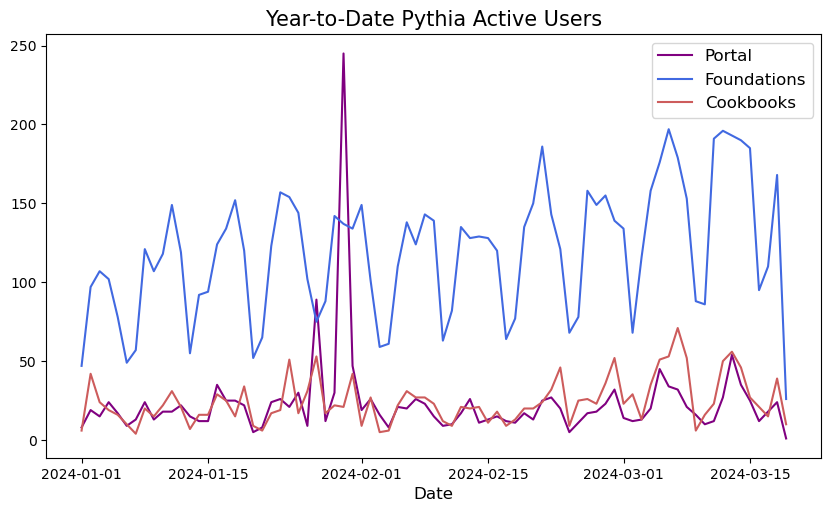
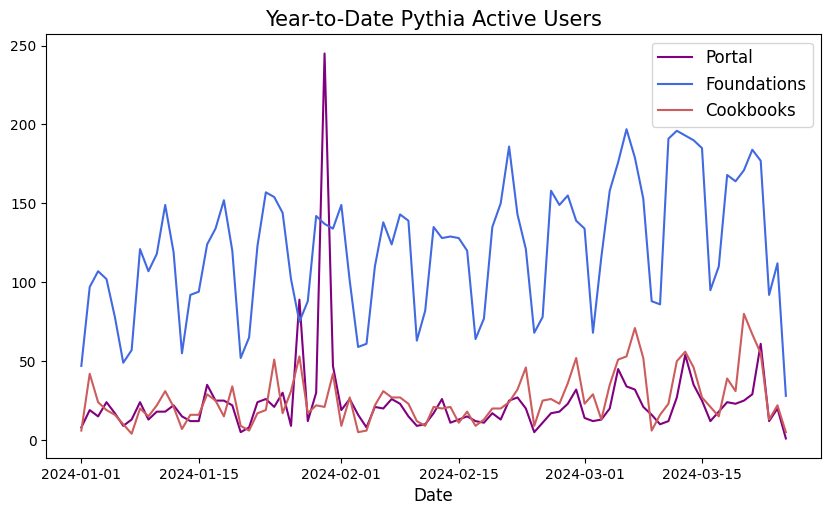
deploy: 61ee7ad4a2fcb126cc232da2541109c26b6d800a

diff --git a/searchindex.js b/searchindex.js
@@ -1,1 +1,1 @@
-Search.setIndex({docnames:["about","code_of_conduct","contributing","index","metrics","posts/cookoff2023","posts/cookoff2024-savethedate","posts/cookoff2024-website","resource-gallery"],envversion:{"sphinx.domains.c":2,"sphinx.domains.changeset":1,"sphinx.domains.citation":1,"sphinx.domains.cpp":5,"sphinx.domains.index":1,"sphinx.domains.javascript":2,"sphinx.domains.math":2,"sphinx.domains.python":3,"sphinx.domains.rst":2,"sphinx.domains.std":2,"sphinx.ext.intersphinx":1,sphinx:56},filenames:["about.md","code_of_conduct.md","contributing.md","index.md","metrics.md","posts/cookoff2023.md","posts/cookoff2024-savethedate.md","posts/cookoff2024-website.md","resource-gallery.md"],objects:{},objnames:{},objtypes:{},terms:{"0":3,"01":0,"02":0,"03":0,"04":0,"05":0,"06":0,"07":0,"1":[1,3,8],"10":[1,3,5],"11":[3,6,7],"12":0,"14":[3,6,7],"2":[3,8],"20":[1,5],"2019":8,"2020":1,"2021":0,"2022":0,"2023":[0,3],"2024":[0,3],"23":5,"3":[2,3,8],"36":5,"3857":8,"4":[1,3],"4326":8,"5":8,"5065":1,"5281":3,"6":8,"6w2c":1,"75":8,"8184298":3,"abstract":0,"break":2,"case":[2,8],"class":8,"do":[1,2,3,8],"final":2,"function":8,"import":[2,5],"long":[2,3],"new":[5,8],"public":[0,2,3,8],"short":[2,8],"static":8,"while":[2,3,8],A:[0,2,8],As:2,At:2,BY:3,Be:1,But:[2,8],By:8,For:[2,3],If:[1,2,3],In:[0,1,2,8],It:[2,8],One:[2,5],Such:1,That:2,The:[0,1,5,6,7,8],There:[2,3],These:[2,3],To:[0,2,3,8],With:2,a132:1,abernathei:8,abid:1,abil:[1,8],abl:2,about:[2,3,5,8],abov:[1,2,8],abovement:8,abus:1,academ:8,academi:8,accept:[1,2],access:[0,2,3,8],account:[1,2],acknowledg:1,acquir:2,across:3,act:3,action:1,activ:[1,2,8],actual:2,ad:2,adapt:[1,3],add:8,addit:[1,2,5,8],address:[1,2,8],addtion:2,adopt:[0,1],advanc:[0,1,3,8],advis:2,affect:[1,2],affili:[1,8],after:2,ag:1,again:2,against:2,agenda:3,agnost:8,agu:[0,1],ai:8,aim:8,aka:2,al:8,alan:8,alarm:1,albani:8,alert:1,alfr:8,algorithm:8,align:1,alik:8,all:[0,1,2,3,8],allow:[2,8],along:[2,3,8],alreadi:[2,8],also:[0,1,2,3,8],altern:2,alwai:2,am:0,amelia:3,american:1,an:[0,1,2,3,5,8],anaconda:2,analys:8,analysi:8,analyt:8,analyz:[0,8],ancient:0,anderson:8,ani:[0,1,2,3,8],anim:8,anissa:8,anonym:8,anonymousaffili:8,anoth:[2,8],anyon:[1,3],anyth:[2,3,8],anywher:2,apach:3,api:8,apollo:0,appear:1,appli:1,applic:[1,8],approach:8,appropri:[1,2,3],approxim:8,ar:[0,1,2,3,5,8],area:8,argument:2,arm:0,around:[0,3],arrai:8,arriba:8,arw:8,asefawaffili:8,ask:[2,8],aspect:2,aspir:0,assembl:2,asset:2,associ:[1,2],astronom:8,atmospher:[0,8],atsc301:8,attack:1,attempt:3,attent:1,attribut:8,austinaffili:8,author:8,automat:2,avail:[1,2,8],avoid:1,b:2,back:[2,3],background:8,ban:1,banihirw:8,base:[0,1,2,8],basemap:8,basic:[2,8],becaus:2,becom:5,been:2,befor:2,begin:[3,8],beginn:8,behavior:1,being:[0,8],bel:8,belaffili:8,believ:[2,8],below:[1,2,3,8],benefit:5,best:[2,8],better:[0,5],between:2,beyond:[0,8],big:8,binder:0,bodi:1,book:8,borrow:[1,8],both:[0,1,2,8],boulder:[5,6,7,8],bound:8,box:8,branch:2,branch_nam:2,brendan:8,brian:[0,3,8],british:8,broadcast:8,broadli:8,broken:[2,8],brought:[1,8],browser:2,buil:8,build:[0,2,3,8],built:[0,8],builtin:8,button:2,calcul:8,calendar:8,call:[0,8],camron:[0,8],can:[1,2,3,8],career:[0,8],carpentri:8,carri:1,cartopi:[2,8],catalog:8,categor:8,categori:3,cc:3,cd:2,center:[0,3],certif:8,cesm:0,chabot:8,challeng:[0,2],chang:[0,1,5],channel:3,chapter:8,characterist:1,check:[2,7,8],checkout:2,chemistri:0,choos:2,chronolog:0,chunk:2,ci2023:0,circumst:1,citat:5,clarifi:[1,2],clean:[2,8],clear:8,clearli:8,click:[0,2,3],client:8,climat:[0,8],climatematch:8,climlab:8,clone:2,cloud:0,clyne:[0,3],cma:8,co:[2,5],coast:0,code:[3,5,8],collab:8,collabor:[0,1,2,3,8],collect:[2,8],colorado:[0,6,7,8],columbia:8,com:2,come:[3,6],command:[2,8],commandlin:8,comment:[1,5],commit:1,common:[2,3,8],commonli:8,commun:[0,2,3,5,8],communityaffili:8,comp:8,compar:2,complaint:1,complet:2,complex:[2,8],compli:1,complic:2,compon:[3,8],comprehens:[3,8],comput:[0,3,8],concept:8,concern:1,concis:8,conda:[2,8],conduct:[2,3],confer:3,config:2,congratul:2,connect:[2,3],consid:[1,2],consider:1,consist:8,consult:2,consumpt:3,contain:[2,8],content:[0,3,5,8],contexili:8,contextili:8,contextu:8,continu:[1,8],contribut:[0,1,5,8],contributor:[1,3,8],contributorsaffili:8,control:[2,8],convent:2,cook:[0,3],cookbook:[0,7],coordin:8,copi:2,core:8,corner:2,correctli:[2,8],could:1,courework:8,cours:[0,2,8],coven:1,cover:[2,3,8],creat:[1,8],creativ:3,creator:1,credit:3,critic:1,critiqu:1,curat:[3,8],current:[0,2,8],custom:[2,8],customiz:0,cut:8,cych:8,cygnss:8,dai:8,damien:8,danger:1,dani:8,dask:8,data:[0,8],dataarrai:8,dataset:8,datatyp:8,date:[0,1,2],datetim:8,daunt:2,deal:8,decemb:1,deem:1,defens:8,defin:[1,8],delphi:0,demo:8,demonstr:8,depart:8,depend:[2,8],deploy:0,depth:8,describ:2,descript:2,design:8,desir:2,desktop:2,detail:[2,3,6,8],develop:[2,3,5,8],developersaffili:8,diagnost:[0,8],dialogu:2,dictionari:8,did:2,differ:[2,8],difficult:2,difficulti:2,digit:0,dimens:8,dimension:8,direct:1,directli:2,directori:2,disabl:1,discern:8,disciplin:0,discours:3,discrimin:1,discuss:[2,8],disk:8,displai:8,distress:1,divers:[1,8],doc:2,document:[1,2,8],documentation_cleanup:2,doe:[2,8],doherti:8,doi:[1,3,5],domain:[3,8],don:2,done:[2,8],down:2,download:[2,3,8],drew:[0,8],driven:8,dure:5,e:[0,2,3,8],each:[2,3],earth:[0,8],eas:2,easi:[2,8],easier:8,easiest:2,ecolog:8,ecosystem:[0,2,3,8],ed:8,edg:8,edit:[1,2],educ:[0,2,3,8],effect:[0,2,3],effici:8,effort:[0,5],either:2,electron:1,eleg:8,elsewher:[2,8],email:[1,2],emerg:0,emploi:2,employe:1,empow:[0,1],enabl:[2,8],encount:2,encourag:[1,2,3],end:5,enforc:1,engag:3,engin:[0,8],enjoi:5,enough:8,enterpris:2,enthought:8,enthusiast:[5,8],entir:[0,2,3,8],environ:[0,1,8],environment:8,epsg:8,equat:8,equiti:1,eroglu:3,error:8,escienc:8,esd:0,essenti:2,et:8,etc:[1,2],ethnic:1,even:[2,8],event:[1,5],everi:8,everyon:[1,3,5,8],everyth:2,exampl:[0,1,2,3,5,8],excit:3,execut:[0,2],exercis:8,exist:[2,8],exit:5,expand:5,expect:[1,2,5],experi:[1,8],expertis:0,explain:8,explicit:1,explicitli:2,explor:8,exploratori:8,express:[1,8],extend:8,extens:8,extern:[2,8],face:1,facilit:3,familiar:2,fast:8,featur:8,feature_nam:2,feder:1,fellow:1,felt:5,few:2,field:8,figur:[2,8],file:[2,8],filter:[2,3,8],find:[2,3],fine:2,fiona:8,first:[2,5,8],firstli:2,fit:8,fix:2,flexibl:8,focu:8,focus:[0,3,8],folk:3,follow:[1,2,8],forecast:8,form:[1,8],format:[0,2,8],formerli:8,forum:[0,1,2,3],found:2,foundat:8,free:[2,3],freeli:[3,8],friend:2,friendli:8,from:[0,1,3,5,8],fun:8,fundament:8,further:[1,2,8],g:[2,8],galleri:5,garden:0,gatewai:5,gather:[3,5],gave:2,gender:1,gener:[2,8],genet:1,geo:3,geocat:[2,8],geocataffili:8,geograph:8,geographi:8,geohackweek:8,geojson:8,geometr:8,geopanda:8,geophys:1,geoscienc:[0,2,3,8],geoscientif:[0,3,5],geoscientist:[0,2,3,8],geospati:8,geotiff:8,get:[0,3,5,8],gi:8,git:8,github:[0,3,8],give:[2,3],glaciolog:8,global:[2,8],gloss:8,go:[2,3,8],goal:[3,8],god:0,goe:2,good:2,googl:[2,8],gopalakrishnanaffili:8,gracefulli:1,graduat:8,graph:8,great:[2,5,8],greatli:2,greek:0,grew:8,grid:8,group:[0,3],grover:0,groveraffili:8,grow:8,guest:1,guid:[3,8],guidelin:2,gulf:0,ha:[2,3,5],hacakthon:5,hackthon:5,hackweek:8,hand:[3,8],hanna:8,happen:2,harass:1,hardwar:1,harm:1,have:[0,1,2,3,8],head:2,heavili:[0,8],held:8,help:[0,2,3,8],here:[0,2,3,8],heterogen:8,hidden:2,high:[0,3,8],highlight:8,histori:0,hold:3,holoview:8,holoviz:8,home:[0,1,2,3],hook:2,hope:8,hopefulli:2,host:[2,3,5,8],hostil:1,hour:3,hous:3,how:[0,2,8],howev:[0,2],hr:1,http:[1,2,3],hub:3,huge:[0,2,3],hvplot:8,hybrid:5,hydrolog:8,i:8,icon:2,idea:[1,2],ideal:8,ident:1,illustr:8,imag:[1,8],imageri:8,immedi:1,impact:2,improv:[0,5],inappropri:1,incid:1,includ:[1,2,3,8],inclus:[0,1,3,8],incomplet:8,index:8,indic:2,individu:[1,3,8],info:0,inform:[1,2,3,8],infrastructur:[2,5],ingest:8,initi:[0,3],insid:2,inspir:8,instal:[2,8],instanc:[1,2],instead:0,institut:[1,2,8],instituteaffili:8,instruct:2,instructor:3,instrument:0,intak:8,integr:[0,8],intend:8,intens:8,interact:[3,8],interest:3,interfac:8,intermedi:8,internet:[3,8],interoper:2,interpol:8,intimid:1,intro:8,introduc:[5,8],introduct:[0,8],intuit:8,involv:[0,2,3],ipyleaflet:8,irv:8,isn:2,isol:2,iss:0,issu:[1,2],issue_xxx:2,item:2,its:[0,1,2,8],j:3,jai:8,jame:3,john:[0,3],join:5,journei:2,jovian:8,julia:[0,8],june:[3,5,6,7],jupyt:[3,8],jupyterbook:8,jupyterlab:8,just:[2,8],k:8,keep:[2,8],kei:8,kent:[0,8],kerri:8,kevin:[0,3,8],keyaffili:8,know:8,knowledg:2,known:0,koldunovaffili:8,kootz:8,l:8,lab:[5,6,7,8],labaffili:8,label:[2,8],laboratori:8,lamont:8,languag:[0,2,8],laptop:2,larg:8,larger:5,last:2,lastli:2,later:[0,2,3],latest:[1,2],latter:2,launch:0,law:1,layer:8,learn:[0,2,5,8],learner:8,least:8,leclerc:8,leclercaffili:8,led:3,len:0,less:8,lesson:8,level:[0,1,2,8],leverag:0,librari:8,licens:3,light:0,like:[0,2,8],limit:1,line:[2,8],link:[0,2,3],lisa:8,list:[0,1,2,3],live:8,liverpool:8,ll:[2,8],locat:[2,6,7],log:2,look:[0,2,3,8],lot:2,love:8,machin:2,made:[0,2,5],mai:[1,2,3,8],mail:1,main:2,maintain:[1,2,8],major:8,make:[0,1,3,8],manag:[1,2],mani:8,manipul:[0,8],manual:2,map:8,mapbox:8,marin:8,markdown:8,materi:[2,3,8],math:8,mathemat:8,matlab:8,matplotlib:[2,8],max:[0,8],md:2,me:5,mean:3,meaning:2,mechan:8,media:[1,3],meet:1,member:[1,2,5],mention:2,menu:2,mercat:8,merg:2,mesa:[5,6,7],messag:2,met:8,meteorolog:8,method:[2,8],metpi:8,michael:8,michaela:8,might:[2,8],mind:1,miniconda:2,minut:8,mirror:5,mission:8,model:[1,8],modern:8,modul:8,mondai:8,monstrou:0,more:[0,2,3,6,8],most:[2,8],mostli:8,mth271:8,much:[2,8],multi:8,multidisciplinari:8,multipl:[2,8],multitud:0,munro:3,must:2,myriad:[0,2],mysteri:0,mytholog:0,n:8,name:2,nation:1,nativ:8,navig:[0,2],nbsp:8,ncar:[5,6,7,8],neatli:8,necessari:[1,2,8],need:[2,3,8],netcdf4:8,netcdf:8,network:8,neuromatch:8,never:2,nevertheless:2,newli:2,next:[2,3,8],nguyen:8,nikolai:8,non:[3,8],none:8,normal:1,note:[2,3],notebook:[3,5,8],notic:1,notifi:2,novel:5,now:2,nsf:3,nuditi:1,number:2,numer:[0,3,8],numpi:8,o:8,object:8,observ:[0,8],observatori:8,occas:8,occur:2,ocean:[0,8],oceanographi:8,odei:1,off:[0,3,8],offens:1,offer:[2,8],offic:[1,8],offici:2,often:2,old:0,onc:[2,8],one:[2,8],ones:[1,2],onli:[0,2],onlin:[0,1,2,8],open:[0,2,3,8],openli:1,oper:[2,8],opinion:1,opt:2,option:2,oracl:0,order:[0,8],org:[1,3],organ:[2,3,8],orhan:3,orient:[1,8],origin:[1,2],os:3,other:[0,1,2,3,8],our:[2,3,5,8],out:[1,2,3,7,8],outlin:1,output:8,outreach:3,outsid:[1,2],over:8,overcom:2,overview:8,own:[0,2,3,5,8],owner:2,pace:3,packag:[0,2,8],page:[1,2,8],paid:2,panda:8,pangeo:[0,3,5,8],paragraph:2,parallel:8,parlanc:2,part:[2,8],parti:1,particip:[1,3,8],particular:2,particularli:8,pass:8,password:2,past:3,path:2,path_to_new_fil:2,pattern:8,paul:0,paulaffili:8,peopl:[1,5,8],perform:[2,8],perman:1,permiss:1,person:1,pertin:2,philip:8,physic:[1,8],pick:[2,3],place:[5,6,7,8],plan:8,platform:[0,8],pleas:[2,3],plot:8,plu:2,point:[0,1,2],polar:8,polici:1,polit:1,pooch:8,popul:2,popular:8,portal:[0,3],portland:8,posit:1,possibl:[0,2,8],post:[2,5],poster:0,potenti:0,power:[0,2,8],practic:[2,3,8],pre:[2,8],pregnanc:1,preliminari:7,present:[2,8],preview:2,previou:3,prior:8,privat:1,problem:[2,8],procedur:1,process:[1,2,8],procur:8,produc:[0,8],product:[1,8],profession:[1,8],program:[0,2,8],progress:8,proj4:8,project:[2,5,8],projectpythia:[2,3],prompt:2,prone:8,pronoun:1,properli:2,propos:3,protect:1,protocol:2,proven:8,provid:[0,1,2,5,8],publicli:1,publish:[1,3,8],pull:8,pure:8,put:8,pyngl:8,pystac:8,pythia:[1,7,8],pythia_repo_nam:2,pythiaaffili:8,python:[0,3,5,8],qualiti:[0,3,8],question:[2,3,8],r:8,race:1,radar:[0,5],radiat:8,ran:2,rang:3,rapidli:0,raster:8,rasterio:8,rather:1,raw:8,reach:[3,8],read:[2,3,8],readi:8,real:[0,8],reason:1,receipt:1,recent:0,record:[3,8],redirect:2,reduc:2,refer:[2,3,8],regardless:1,regular:3,regularli:3,reject:1,rel:0,relat:2,relev:[2,8],reli:0,reliabl:2,religion:1,remaind:8,rememb:2,remot:[2,5,8],remov:1,render:2,repeat:1,repositori:[1,3,8],represent:1,reproduc:[0,3,5,8],request:[1,8],requir:[0,1,2],requisit:8,research:[0,3,5,8],resourc:[0,5],respect:[1,2],respond:[1,2],result:[2,8],rethink:0,retriev:8,reus:3,reusabl:[0,3],revers:[0,2],review:8,right:[1,2],rocki:0,role:8,root:2,rose:[0,3],roseaffili:8,routin:8,row:2,rule:1,run:[0,1,2,8],ryan:[3,8],s:[0,1,3,5,8],safe:[1,2],sai:2,said:0,same:[0,2],satellit:8,satisfi:2,save:8,scale:8,scenario:8,schedul:3,scienc:[0,3,5,8],scientif:[0,2,3,8],scientist:[0,5,8],scipi:[0,8],scripp:8,script:8,search:2,searchabl:0,second:[2,8],secondli:2,section:[1,8],see:[0,2,3,5],seem:0,seen:2,select:[2,3],seminar:[3,8],send:2,sens:[0,3,5,8],separ:[2,3,8],seri:8,serv:[0,3,8],server:[2,8],servic:[2,8],set:[1,3,8],sever:3,sexual:1,shall:8,shape:8,share:[2,3],sharpen:3,shell:2,should:[1,2,8],show:[1,8],showcas:[0,8],sign:2,signific:[5,8],similarli:0,simpl:[2,8],simpli:2,simplifi:2,simul:0,sinc:8,singl:0,siphon:8,sit:3,site:[2,3,8],situat:1,size:1,sizemoreaffili:8,skill:[0,3,5,8],slai:0,slain:0,slice:8,slide:[0,3],small:8,smaller:3,snyder:3,so:[1,2,3,8],social:[1,3],softwar:[0,1,2,8],solut:2,solv:[2,8],some:[2,8],someon:[1,5],someth:2,sometim:2,somewhat:2,soon:[5,6],sourc:[0,2,3,8],space:[0,1],spatial:8,specif:[1,2,3,8],specifi:2,spend:8,spheric:8,spin:8,spreadsheet:8,ssh:2,stackoverflow:2,staff:1,stalk:1,standalon:8,standard:[2,8],start:[5,8],state:[1,8],statist:8,statu:[1,2],step:2,steward:1,stop:1,store:8,storm:0,stream:8,stricli:2,strive:8,strong:1,structur:8,student:8,studi:[0,8],subdirectori:2,submit:8,subplot:8,subsect:2,subsequ:2,subset:8,success:3,successfulli:2,suggest:2,suit:8,summar:2,supercomput:0,support:[1,2,5,8],sure:2,surround:1,survei:5,sustain:0,syntax:8,system:[0,1,2,8],t:2,tab:2,tabular:8,tailor:8,take:[1,6,7],talk:[0,1],target:[2,8],task:[1,8],taster:8,taught:8,taux:8,teach:8,team:[1,2,3,5,8],teamaffili:8,technic:[0,2],techniqu:8,technolog:[0,2,3,8],telecon:1,telescop:8,tell:2,templ:0,templat:2,temporarili:1,term:2,termin:2,terrain:8,test:[2,8],textbook:8,than:[1,2],thei:[1,2,5,8],them:[1,2,8],therefor:1,therein:2,thi:[0,2,3,5,7,8],thing:[0,1,2,8],those:[1,2,8],though:2,threaten:1,thredd:8,three:[0,2,8],through:[0,3,8],thu:0,tightli:8,tile:8,time:[2,8],timeseri:8,titl:0,todai:0,togeth:[3,8],tool:[0,2,3,5,8],toolchain:2,toolkit:8,top:[2,3,8],topic:[2,3,8],toward:[1,5],track:[3,8],tracker:1,train:[0,3,8],transform:0,transpar:8,treat:1,treatment:1,tremend:0,ture:8,turn:8,tutori:[2,8],two:[0,2,8],txt:8,tyle:[0,3],type:[2,8],typic:2,ucar:1,uk:8,ultim:2,umbrella:2,unaccept:1,uncommit:2,under:[1,2,3,8],understand:2,undertak:8,unfortun:2,unidata:8,union:1,univers:[2,8],unsur:3,until:2,unwelcom:1,up:[0,2,5,8],upcom:3,updat:[0,2,3],upon:1,upper:2,upstream:2,us:[0,1,2,8],user:[2,8],util:8,valid:2,valu:[1,5],vari:2,varieti:[2,8],variou:8,vast:0,ve:2,vector:8,venu:1,verbal:1,veri:[2,8],verifi:2,version:[1,2,8],veteran:1,via:[3,8],video:[0,8],view:[1,3],violat:1,vision:0,visit:[3,8],visual:[0,8],viz:8,volum:[0,3],vs:8,wa:[0,1,8],wai:8,want:[2,3],washington:8,we:[1,2,3,5,8],wealth:3,weather:[0,8],web:[0,1,2,8],websit:[1,8],weekli:8,wegen:8,weight:0,welcom:[1,2,3,8],well:[1,8],were:[2,5,8],wgs84:8,what:[2,8],when:[1,2,5],whenev:2,where:[2,3],whether:1,which:[1,2,8],who:[1,8],wide:[2,8],widespread:8,widget:8,wiki:1,wildfir:0,window:2,wish:2,within:[0,1,2],without:[1,2],work:[0,3,8],workflow:[0,2,3,5],workshop:8,workstat:2,world:[0,2,8],worldwid:8,would:[1,5],wrf:8,write:[2,8],written:[1,8],x:2,xarrai:[2,8],xdev:8,xgcm:8,xrai:8,xxx:2,ye:2,year:[0,5],yet:2,you:[0,1,2,3,8],your:[0,1,3,8],your_branch_nam:2,your_email:2,your_nam:2,your_user_nam:2,yourself:[2,8],youtub:3,zacharia:8,zenodo:3,zero:8,zoom:3},titles:["About Project Pythia","Code of Conduct","Contributor\u2019s Guide","Project Pythia","Metrics","Pythia Cookbook Cook-Off Hackathon 2023","Pythia Cookbook Cook-Off Hackathon 2024 - Save the Date!","Website is live for the 2024 Cook-off hackathon","Resource Gallery"],titleterms:{"2023":5,"2024":[6,7],"do":0,"new":2,The:[2,3],about:0,add:2,administr:1,advanc:2,attribut:1,authent:2,book:3,calendar:3,chang:2,cite:3,code:[1,2],collect:3,commit:2,commun:1,conduct:1,configur:2,consequ:1,content:2,contribut:[2,3],contributor:2,convers:2,cook:[5,6,7],cookbook:[2,3,5,6],creat:2,data:3,date:6,environ:2,event:3,fork:2,foundat:[2,3],from:2,galleri:[2,3,8],get:2,git:2,github:2,goal:0,guid:2,hackathon:[5,6,7],how:3,join:3,jupyt:2,learn:3,live:7,local:2,make:2,mani:2,meet:3,metric:4,monthli:3,name:0,need:0,notebook:2,off:[5,6,7],our:1,overview:2,person:2,pledg:1,portal:2,pr:2,present:0,project:[0,1,3],pull:2,push:2,pythia:[0,2,3,5,6],python:2,readi:2,repo:2,report:1,repositori:2,request:2,resourc:[2,3,8],respons:1,review:2,s:2,save:6,scope:1,seri:3,set:2,setup:2,standard:1,start:[2,3],submit:2,thi:1,tutori:3,us:3,wai:2,we:0,webinar:3,websit:7,who:0,why:0,work:2,your:2}})
+Search.setIndex({docnames:["about","code_of_conduct","contributing","index","metrics","posts/cookoff2023","posts/cookoff2024-savethedate","posts/cookoff2024-website","resource-gallery"],envversion:{"sphinx.domains.c":2,"sphinx.domains.changeset":1,"sphinx.domains.citation":1,"sphinx.domains.cpp":5,"sphinx.domains.index":1,"sphinx.domains.javascript":2,"sphinx.domains.math":2,"sphinx.domains.python":3,"sphinx.domains.rst":2,"sphinx.domains.std":2,"sphinx.ext.intersphinx":1,sphinx:56},filenames:["about.md","code_of_conduct.md","contributing.md","index.md","metrics.md","posts/cookoff2023.md","posts/cookoff2024-savethedate.md","posts/cookoff2024-website.md","resource-gallery.md"],objects:{},objnames:{},objtypes:{},terms:{"0":3,"01":0,"02":0,"03":[0,4],"04":0,"05":0,"06":0,"07":0,"1":[1,3,8],"10":[1,3,5],"11":[3,6,7],"12":[0,4],"14":[3,6,7],"2":[3,8],"20":[1,4,5],"2019":8,"2020":1,"2021":0,"2022":0,"2023":[0,3],"2024":[0,3,4],"23":5,"25":4,"29":4,"3":[2,3,8],"36":5,"37":4,"3857":8,"4":[1,3],"423900":4,"4326":8,"47":4,"5":8,"5065":1,"5281":3,"5k":4,"6":[4,8],"6w2c":1,"75":8,"8184298":3,"9k":4,"abstract":0,"break":2,"case":[2,8],"class":8,"do":[1,2,3,8],"final":2,"function":8,"import":[2,5],"long":[2,3],"new":[5,8],"public":[0,2,3,8],"short":[2,8],"static":8,"while":[2,3,8],A:[0,2,8],As:2,At:2,BY:3,Be:1,But:[2,8],By:8,For:[2,3],If:[1,2,3],In:[0,1,2,8],It:[2,8],One:[2,5],Such:1,That:2,The:[0,1,5,6,7,8],There:[2,3],These:[2,3],To:[0,2,3,8],With:2,a132:1,abernathei:8,abernatheyaffili:8,abid:1,abil:[1,8],abl:2,about:[2,3,5,8],abov:[1,2,8],abovement:8,abus:1,academ:8,academi:8,accept:[1,2],access:[0,2,3,8],account:[1,2],acknowledg:1,acquir:2,across:3,act:3,action:1,activ:[1,2,8],actual:2,ad:2,adapt:[1,3],add:8,addit:[1,2,5,8],address:[1,2,8],addtion:2,adopt:[0,1],advanc:[0,1,3,8],advis:2,affect:[1,2],affili:[1,8],after:2,ag:1,again:2,against:2,agenda:3,agnost:8,agu:[0,1],ai:8,aim:8,aka:2,al:8,alan:8,alarm:1,albani:8,alert:1,alfr:8,algorithm:8,align:1,alik:8,all:[0,1,2,3,8],allow:[2,8],along:[2,3,8],alreadi:[2,8],also:[0,1,2,3,8],altern:2,alwai:2,am:0,amelia:3,american:1,an:[0,1,2,3,5,8],anaconda:2,analys:8,analysi:8,analyt:8,analyz:[0,8],ancient:0,anderson:8,ani:[0,1,2,3,8],anim:8,anissa:8,anonym:8,anonymousaffili:8,anoth:[2,8],anyon:[1,3],anyth:[2,3,8],anywher:2,apach:3,api:8,apollo:0,appear:1,appli:1,applic:[1,8],approach:8,appropri:[1,2,3],approxim:8,ar:[0,1,2,3,5,8],area:8,argument:2,arm:0,around:[0,3],arrai:8,arriba:8,arw:8,asefaw:8,ask:[2,8],aspect:2,aspir:0,assembl:2,asset:2,associ:[1,2],astronom:8,atmospher:[0,8],atsc301:8,attack:1,attempt:3,attent:1,attribut:8,austinaffili:8,author:8,automat:2,avail:[1,2,8],avoid:1,b:2,back:[2,3],background:8,ban:1,banihirw:8,base:[0,1,2,8],basemap:8,basic:[2,8],becaus:2,becom:5,been:2,befor:2,begin:[3,8],beginn:8,behavior:1,being:[0,8],bel:8,belaffili:8,believ:[2,8],below:[1,2,3,8],benefit:5,best:[2,8],better:[0,5],between:2,beyond:[0,8],big:8,binder:0,bodi:1,book:8,borrow:[1,8],both:[0,1,2,8],boulder:[5,6,7,8],bound:8,box:8,branch:2,branch_nam:2,brendan:8,brian:[0,3,8],british:8,broadcast:8,broadli:8,broken:[2,8],brought:[1,8],browser:2,buil:8,build:[0,2,3,8],built:[0,8],builtin:8,button:2,calcul:8,calendar:8,call:[0,8],camron:[0,8],can:[1,2,3,8],career:[0,8],carpentri:8,carri:1,cartopi:[2,8],catalog:8,categor:8,categori:3,cc:3,cd:2,center:[0,3],certif:8,cesm:0,chabot:8,challeng:[0,2],chang:[0,1,5],channel:3,chapter:8,characterist:1,check:[2,7,8],checkout:2,chemistri:0,choos:2,chronolog:0,chunk:2,ci2023:0,circumst:1,citat:5,clarifi:[1,2],clean:[2,8],clear:8,clearli:8,click:[0,2,3],client:8,climat:[0,8],climatematch:8,climlab:8,clone:2,cloud:0,clyne:[0,3],cma:8,co:[2,5],coast:0,code:[3,5,8],collab:8,collabor:[0,1,2,3,8],collect:[2,8],colorado:[0,6,7,8],columbia:8,com:2,come:[3,6],command:[2,8],commandlin:8,comment:[1,5],commit:1,common:[2,3,8],commonli:8,commun:[0,2,3,5,8],communityaffili:8,comp:8,compar:2,complaint:1,complet:2,complex:[2,8],compli:1,complic:2,compon:[3,8],comprehens:[3,8],comput:[0,3,8],concept:8,concern:1,concis:8,conda:[2,8],conduct:[2,3],confer:3,config:2,congratul:2,connect:[2,3],consid:[1,2],consider:1,consist:8,consult:2,consumpt:3,contain:[2,8],content:[0,3,5,8],contexili:8,contextili:8,contextu:8,continu:[1,8],contribut:[0,1,5,8],contributor:[1,3,8],contributorsaffili:8,control:[2,8],convent:2,cook:[0,3],cookbook:[0,4,7],coordin:8,copi:2,core:8,corner:2,correctli:[2,8],could:1,courework:8,cours:[0,2,8],coven:1,cover:[2,3,8],creat:[1,8],creativ:3,creator:1,credit:3,critic:1,critiqu:1,curat:[3,8],current:[0,2,8],custom:[2,8],customiz:0,cut:8,cych:8,cygnss:8,dai:8,damien:8,danger:1,dani:8,dask:8,data:[0,8],dataarrai:8,dataset:8,datatyp:8,date:[0,1,2],datetim:8,daunt:2,deal:8,decemb:1,deem:1,defens:8,defin:[1,8],delphi:0,demo:8,demonstr:8,depart:8,depend:[2,8],deploy:0,depth:8,describ:2,descript:2,design:8,desir:2,desktop:2,detail:[2,3,6,8],develop:[2,3,5,8],developersaffili:8,diagnost:[0,8],dialogu:2,dictionari:8,did:2,differ:[2,8],difficult:2,difficulti:2,digit:0,dimens:8,dimension:8,direct:1,directli:2,directori:2,disabl:1,discern:8,disciplin:0,discours:3,discrimin:1,discuss:[2,8],disk:8,displai:8,distress:1,divers:[1,8],doc:2,document:[1,2,8],documentation_cleanup:2,doe:[2,8],doherti:8,doi:[1,3,5],domain:[3,8],don:2,done:[2,8],down:2,download:[2,3,8],drew:[0,8],driven:8,dure:5,e:[0,2,3,8],each:[2,3],earth:[0,8],eas:2,easi:[2,8],easier:8,easiest:2,ecolog:8,ecosystem:[0,2,3,8],ed:8,edg:8,edit:[1,2],educ:[0,2,3,8],effect:[0,2,3],effici:8,effort:[0,5],either:2,electron:1,eleg:8,elsewher:[2,8],email:[1,2],emerg:0,emploi:2,employe:1,empow:[0,1],enabl:[2,8],encount:2,encourag:[1,2,3],end:5,enforc:1,engag:3,engin:[0,8],enjoi:5,enough:8,enterpris:2,enthought:8,enthusiast:[5,8],entir:[0,2,3,8],environ:[0,1,8],environment:8,epsg:8,equat:8,equiti:1,eroglu:3,error:8,escienc:8,esd:0,essenti:2,et:8,etc:[1,2],ethnic:1,even:[2,8],event:[1,5],everi:8,everyon:[1,3,5,8],everyth:2,exampl:[0,1,2,3,5,8],excit:3,execut:[0,2],exercis:8,exist:[2,8],exit:5,expand:5,expect:[1,2,5],experi:[1,8],expertis:0,explain:8,explicit:1,explicitli:2,explor:8,exploratori:8,express:[1,8],extend:8,extens:8,extern:[2,8],face:1,facilit:3,familiar:2,fast:8,featur:8,feature_nam:2,feder:1,fellow:1,felt:5,few:2,field:8,figur:[2,8],file:[2,8],filter:[2,3,8],find:[2,3],fine:2,fiona:8,first:[2,5,8],firstli:2,fit:8,fix:2,flexibl:8,focu:8,focus:[0,3,8],folk:3,follow:[1,2,8],forecast:8,form:[1,8],format:[0,2,8],formerli:8,forum:[0,1,2,3],found:2,foundat:[4,8],free:[2,3],freeli:[3,8],friend:2,friendli:8,from:[0,1,3,5,8],fun:8,fundament:8,further:[1,2,8],g:[2,8],galleri:5,garden:0,gatewai:5,gather:[3,5],gave:2,gender:1,gener:[2,8],genet:1,geo:3,geocat:[2,8],geocataffili:8,geograph:8,geographi:8,geohackweek:8,geojson:8,geometr:8,geopanda:8,geophys:1,geoscienc:[0,2,3,8],geoscientif:[0,3,5],geoscientist:[0,2,3,8],geospati:8,geotiff:8,get:[0,3,5,8],gi:8,git:8,github:[0,3,8],give:[2,3],glaciolog:8,global:[2,8],gloss:8,go:[2,3,8],goal:[3,8],god:0,goe:2,good:2,googl:[2,8],gopalakrishnanaffili:8,gracefulli:1,graduat:8,graph:8,great:[2,5,8],greatli:2,greek:0,grew:8,grid:8,group:[0,3],grover:0,groveraffili:8,grow:8,guest:1,guid:[3,8],guidelin:2,gulf:0,ha:[2,3,5],hacakthon:5,hackthon:5,hackweek:8,hand:[3,8],hanna:8,happen:2,harass:1,hardwar:1,harm:1,have:[0,1,2,3,8],head:2,heavili:[0,8],held:8,help:[0,2,3,8],here:[0,2,3,8],heterogen:8,hidden:2,high:[0,3,8],highlight:8,histori:0,hold:3,holoview:8,holoviz:8,home:[0,1,2,3],hook:2,hope:8,hopefulli:2,host:[2,3,5,8],hostil:1,hour:3,hous:3,how:[0,2,8],howev:[0,2],hr:1,http:[1,2,3],hub:3,huge:[0,2,3],hvplot:8,hybrid:5,hydrolog:8,i:8,icon:2,idea:[1,2],ideal:8,ident:1,illustr:8,imag:[1,8],imageri:8,immedi:1,impact:2,improv:[0,5],inappropri:1,incid:1,includ:[1,2,3,8],inclus:[0,1,3,8],incomplet:8,index:8,indic:2,individu:[1,3,8],info:0,inform:[1,2,3,8],infrastructur:[2,5],ingest:8,initi:[0,3],insid:2,inspir:8,instal:[2,8],instanc:[1,2],instead:0,institut:[1,2,8],instituteaffili:8,instruct:2,instructor:3,instrument:0,intak:8,integr:[0,8],intend:8,intens:8,interact:[3,8],interest:3,interfac:8,intermedi:8,internet:[3,8],interoper:2,interpol:8,intimid:1,intro:8,introduc:[5,8],introduct:[0,8],intuit:8,involv:[0,2,3],ipyleaflet:8,irv:8,isn:2,isol:2,iss:0,issu:[1,2],issue_xxx:2,item:2,its:[0,1,2,8],j:3,jai:8,jame:3,john:[0,3],join:5,journei:2,jovian:8,julia:[0,8],june:[3,5,6,7],jupyt:[3,8],jupyterbook:8,jupyterlab:8,just:[2,8],k:8,keep:[2,8],kei:8,kent:[0,8],kerri:8,kevin:[0,3,8],know:8,knowledg:2,known:0,koldunovaffili:8,kootzaffili:8,l:8,lab:[5,6,7,8],labaffili:8,label:[2,8],laboratori:8,lamont:8,languag:[0,2,8],laptop:2,larg:8,larger:5,last:[2,4],lastli:2,later:[0,2,3],latest:[1,2],latter:2,launch:0,law:1,layer:8,learn:[0,2,5,8],learner:8,least:8,leclerc:8,leclercaffili:8,led:3,len:0,less:8,lesson:8,level:[0,1,2,8],leverag:0,librari:8,licens:3,light:0,like:[0,2,8],limit:1,line:[2,8],link:[0,2,3],lisa:8,list:[0,1,2,3],live:8,liverpool:8,ll:[2,8],locat:[2,6,7],log:2,look:[0,2,3,8],lot:2,love:8,machin:2,made:[0,2,5],mai:[1,2,3,8],mail:1,main:2,maintain:[1,2,8],major:8,make:[0,1,3,8],manag:[1,2],mani:8,manipul:[0,8],manual:2,map:8,mapbox:8,marin:8,markdown:8,materi:[2,3,8],math:8,mathemat:8,matlab:8,matplotlib:[2,8],max:[0,8],md:2,me:5,mean:3,meaning:2,mechan:8,media:[1,3],meet:1,member:[1,2,5],mention:2,menu:2,mercat:8,merg:2,mesa:[5,6,7],messag:2,met:8,meteorolog:8,method:[2,8],metpi:8,michael:8,michaela:8,might:[2,8],mind:1,miniconda:2,minut:8,mirror:5,mission:8,model:[1,8],modern:8,modul:8,mondai:8,monstrou:0,more:[0,2,3,6,8],most:[2,8],mostli:8,mth271:8,much:[2,8],multi:8,multidisciplinari:8,multipl:[2,8],multitud:0,munro:3,must:2,myriad:[0,2],mysteri:0,mytholog:0,n:8,name:2,nation:1,nativ:8,navig:[0,2],nbsp:8,ncar:[5,6,7,8],neatli:8,necessari:[1,2,8],need:[2,3,8],netcdf4:8,netcdf:8,network:8,neuromatch:8,never:2,nevertheless:2,newli:2,next:[2,3,8],nguyen:8,nikolai:8,non:[3,8],none:8,normal:1,note:[2,3],notebook:[3,5,8],notic:1,notifi:2,novel:5,now:2,nsf:3,nuditi:1,number:2,numer:[0,3,8],numpi:8,o:8,object:8,observ:[0,8],observatori:8,occas:8,occur:2,ocean:[0,8],oceanographi:8,odei:1,off:[0,3,8],offens:1,offer:[2,8],offic:[1,8],offici:2,often:2,old:0,onc:[2,8],one:[2,8],ones:[1,2],onli:[0,2],onlin:[0,1,2,8],open:[0,2,3,8],openli:1,oper:[2,8],opinion:1,opt:2,option:2,oracl:0,order:[0,8],org:[1,3],organ:[2,3,8],orhan:3,orient:[1,8],origin:[1,2],os:3,other:[0,1,2,3,8],our:[2,3,5,8],out:[1,2,3,7,8],outlin:1,output:8,outreach:3,outsid:[1,2],over:8,overcom:2,overview:8,own:[0,2,3,5,8],owner:2,pace:3,packag:[0,2,8],page:[1,2,8],paid:2,panda:8,pangeo:[0,3,5,8],paragraph:2,parallel:8,parlanc:2,part:[2,8],parti:1,particip:[1,3,8],particular:2,particularli:8,pass:8,password:2,past:3,path:2,path_to_new_fil:2,pattern:8,paul:0,paulaffili:8,peopl:[1,5,8],perform:[2,8],perman:1,permiss:1,person:1,pertin:2,philip:8,physic:[1,8],pick:[2,3],place:[5,6,7,8],plan:8,platform:[0,8],pleas:[2,3],plot:8,plu:2,point:[0,1,2],polar:8,polici:1,polit:1,pooch:8,popul:2,popular:8,portal:[0,3,4],portland:8,posit:1,possibl:[0,2,8],post:[2,5],poster:0,potenti:0,power:[0,2,8],practic:[2,3,8],pre:[2,8],pregnanc:1,preliminari:7,present:[2,8],preview:2,previou:3,prior:8,privat:1,problem:[2,8],procedur:1,process:[1,2,8],procur:8,produc:[0,8],product:[1,8],profession:[1,8],program:[0,2,8],progress:8,proj4:8,project:[2,4,5,8],projectpythia:[2,3],prompt:2,prone:8,pronoun:1,properli:2,propos:3,protect:1,protocol:2,proven:8,provid:[0,1,2,5,8],publicli:1,publish:[1,3,8],pull:8,pure:8,put:8,pyngl:8,pystac:8,pythia:[1,7,8],pythia_repo_nam:2,pythiaaffili:8,python:[0,3,5,8],qualiti:[0,3,8],question:[2,3,8],r:8,race:1,radar:[0,5],radiat:8,ran:2,rang:3,rapidli:0,raster:8,rasterio:8,rather:1,raw:8,reach:[3,8],read:[2,3,8],readi:8,real:[0,8],reason:1,receipt:1,recent:0,record:[3,8],redirect:2,reduc:2,refer:[2,3,8],regardless:1,regular:3,regularli:3,reject:1,rel:0,relat:2,relev:[2,8],reli:0,reliabl:2,religion:1,remaind:8,rememb:2,remot:[2,5,8],remov:1,render:2,repeat:1,repositori:[1,3,8],represent:1,reproduc:[0,3,5,8],request:[1,8],requir:[0,1,2],requisit:8,research:[0,3,5,8],resourc:[0,5],respect:[1,2],respond:[1,2],result:[2,8],rethink:0,retriev:8,reus:3,reusabl:[0,3],revers:[0,2],review:8,right:[1,2],rocki:0,role:8,root:2,rose:[0,3],roseaffili:8,routin:8,row:2,rule:1,run:[0,1,2,8],ryan:[3,8],s:[0,1,3,5,8],safe:[1,2],sai:2,said:0,same:[0,2],satellit:8,satisfi:2,save:8,scale:8,scenario:8,schedul:3,scienc:[0,3,5,8],scientif:[0,2,3,8],scientist:[0,5,8],scipi:[0,8],scripp:8,script:8,search:2,searchabl:0,second:[2,8],secondli:2,section:[1,8],see:[0,2,3,5],seem:0,seen:2,select:[2,3],seminar:[3,8],send:2,sens:[0,3,5,8],separ:[2,3,8],seri:8,serv:[0,3,8],server:[2,8],servic:[2,8],set:[1,3,8],sever:3,sexual:1,shall:8,shape:8,share:[2,3],sharpen:3,shell:2,should:[1,2,8],show:[1,8],showcas:[0,8],sign:2,signific:[5,8],similarli:0,simpl:[2,8],simpli:2,simplifi:2,simul:0,sinc:8,singl:0,siphon:8,sit:3,site:[2,3,8],situat:1,size:1,sizemoreaffili:8,skill:[0,3,5,8],slai:0,slain:0,slice:8,slide:[0,3],small:8,smaller:3,snyder:3,so:[1,2,3,8],social:[1,3],softwar:[0,1,2,8],solut:2,solv:[2,8],some:[2,8],someon:[1,5],someth:2,sometim:2,somewhat:2,soon:[5,6],sourc:[0,2,3,8],space:[0,1],spatial:8,specif:[1,2,3,8],specifi:2,spend:8,spheric:8,spin:8,spreadsheet:8,ssh:2,stackoverflow:2,staff:1,stalk:1,standalon:8,standard:[2,8],start:[5,8],state:[1,8],statist:8,statu:[1,2],step:2,steward:1,stop:1,store:8,storm:0,stream:8,stricli:2,strive:8,strong:1,structur:8,student:8,studi:[0,8],subdirectori:2,submit:8,subplot:8,subsect:2,subsequ:2,subset:8,success:3,successfulli:2,suggest:2,suit:8,summar:2,supercomput:0,support:[1,2,5,8],sure:2,surround:1,survei:5,sustain:0,syntax:8,system:[0,1,2,8],t:2,tab:2,tabular:8,tailor:8,take:[1,6,7],talk:[0,1],target:[2,8],task:[1,8],taster:8,taught:8,tauxeaffili:8,teach:8,team:[1,2,3,5,8],teamaffili:8,technic:[0,2],techniqu:8,technolog:[0,2,3,8],telecon:1,telescop:8,tell:2,templ:0,templat:2,temporarili:1,term:2,termin:2,terrain:8,test:[2,8],textbook:8,than:[1,2],thei:[1,2,5,8],them:[1,2,8],therefor:1,therein:2,thi:[0,2,3,5,7,8],thing:[0,1,2,8],those:[1,2,8],though:2,threaten:1,thredd:8,three:[0,2,8],through:[0,3,8],thu:0,tightli:8,tile:8,time:[2,8],timeseri:8,titl:0,todai:0,togeth:[3,8],tool:[0,2,3,5,8],toolchain:2,toolkit:8,top:[2,3,8],topic:[2,3,8],toward:[1,5],track:[3,8],tracker:1,train:[0,3,8],transform:0,transpar:8,treat:1,treatment:1,tremend:0,ture:8,turn:8,tutori:[2,8],two:[0,2,8],txt:8,tyle:[0,3],type:[2,8],typic:2,ucar:1,uk:8,ultim:2,umbrella:2,unaccept:1,uncommit:2,under:[1,2,3,8],understand:2,undertak:8,unfortun:2,unidata:8,union:1,univers:[2,8],unsur:3,until:2,unwelcom:1,up:[0,2,5,8],upcom:3,updat:[0,2,3,4],upon:1,upper:2,upstream:2,us:[0,1,2,8],user:[2,4,8],util:8,valid:2,valu:[1,5],vari:2,varieti:[2,8],variou:8,vast:0,ve:2,vector:8,venu:1,verbal:1,veri:[2,8],verifi:2,version:[1,2,8],veteran:1,via:[3,8],video:[0,8],view:[1,3],violat:1,vision:0,visit:[3,8],visual:[0,8],viz:8,volum:[0,3],vs:8,wa:[0,1,8],wai:8,want:[2,3],washington:8,we:[1,2,3,5,8],wealth:3,weather:[0,8],web:[0,1,2,8],websit:[1,8],weekli:8,wegen:8,weight:0,welcom:[1,2,3,8],well:[1,8],were:[2,5,8],wgs84:8,what:[2,8],when:[1,2,5],whenev:2,where:[2,3],whether:1,which:[1,2,8],who:[1,8],wide:[2,8],widespread:8,widget:8,wiki:1,wildfir:0,window:2,wish:2,within:[0,1,2],without:[1,2],work:[0,3,8],workflow:[0,2,3,5],workshop:8,workstat:2,world:[0,2,8],worldwid:8,would:[1,5],wrf:8,write:[2,8],written:[1,8],x:2,xarrai:[2,8],xdev:8,xgcm:8,xrai:8,xxx:2,ye:2,year:[0,5],yet:2,you:[0,1,2,3,8],your:[0,1,3,8],your_branch_nam:2,your_email:2,your_nam:2,your_user_nam:2,yourself:[2,8],youtub:3,zachariasaffili:8,zenodo:3,zero:8,zoom:3},titles:["About Project Pythia","Code of Conduct","Contributor\u2019s Guide","Project Pythia","Metrics","Pythia Cookbook Cook-Off Hackathon 2023","Pythia Cookbook Cook-Off Hackathon 2024 - Save the Date!","Website is live for the 2024 Cook-off hackathon","Resource Gallery"],titleterms:{"2023":5,"2024":[6,7],"do":0,"new":2,The:[2,3],about:0,add:2,administr:1,advanc:2,attribut:1,authent:2,book:3,calendar:3,chang:2,cite:3,code:[1,2],collect:3,commit:2,commun:1,conduct:1,configur:2,consequ:1,content:2,contribut:[2,3],contributor:2,convers:2,cook:[5,6,7],cookbook:[2,3,5,6],creat:2,data:3,date:6,environ:2,event:3,fork:2,foundat:[2,3],from:2,galleri:[2,3,8],get:2,git:2,github:2,goal:0,guid:2,hackathon:[5,6,7],how:3,join:3,jupyt:2,learn:3,live:7,local:2,make:2,mani:2,meet:3,metric:4,monthli:3,name:0,need:0,notebook:2,off:[5,6,7],our:1,overview:2,person:2,pledg:1,portal:2,pr:2,present:0,project:[0,1,3],pull:2,push:2,pythia:[0,2,3,5,6],python:2,readi:2,repo:2,report:1,repositori:2,request:2,resourc:[2,3,8],respons:1,review:2,s:2,save:6,scope:1,seri:3,set:2,setup:2,standard:1,start:[2,3],submit:2,thi:1,tutori:3,us:3,wai:2,we:0,webinar:3,websit:7,who:0,why:0,work:2,your:2}})

diff --git a/resource-gallery.html b/resource-gallery.html
@@ -318,7 +318,7 @@ Packages
 <img class="gallery-thumbnail" src="/_static/thumbnails/earth_env_data_science.png"/>
 <div class="container">
 <a class="text-decoration-none" href="https://earth-env-data-science.github.io/intro"><h4 class="display-4 p-0">An Introduction to Earth and Environmental Data Science</h4></a>
-<p class="card-subtitle"><strong>Author:</strong> Ryan Abernathey, Kerry Key<br/><strong>Affiliation:</strong> Lamont-Doherty Earth Observatory</p>
+<p class="card-subtitle"><strong>Author:</strong> Kerry Key, Ryan Abernathey<br/><strong>Affiliation:</strong> Lamont-Doherty Earth Observatory</p>
 <p class="my-2">This book grew out of a course developed at Columbia University called Research Computing in Earth Science. It was written mostly by Ryan Abernathey, with significant contributions from Kerry Key. By separating the book from the class, we hope to create an open-source community resource for python education<a class="modal-btn"> ... more</a></p>
 </div>
 </div>
@@ -326,7 +326,7 @@ Packages
 <div class="content">
 <img class="modal-img" src="/_static/thumbnails/earth_env_data_science.png"/>
 <h3 class="display-3">An Introduction to Earth and Environmental Data Science</h3>
-<strong>Author:</strong> Ryan Abernathey, Kerry Key
+<strong>Author:</strong> Kerry Key, Ryan Abernathey
 <br/>
 <strong>Affiliation:</strong> Lamont-Doherty Earth Observatory
 <p class="my-2">This book grew out of a course developed at Columbia University called Research Computing in Earth Science. It was written mostly by Ryan Abernathey, with significant contributions from Kerry Key. By separating the book from the class, we hope to create an open-source community resource for python education in the Earth and Environmental Sciences.
@@ -1415,7 +1415,7 @@ Packages
 <img class="gallery-thumbnail" src="/_static/images/ebp-logo.png"/>
 <div class="container">
 <a class="text-decoration-none" href="https://nbviewer.jupyter.org/github/ltauxe/Python-for-Earth-Science-Students/tree/master/"><h4 class="display-4 p-0">Python Programming for Earth Science Students</h4></a>
-<p class="card-subtitle"><strong>Author:</strong> <a href="mailto:bcych@ucsd.edu">Brendan Cych</a>, <a href="mailto:ltauxe@ucsd.edu">Lisa Tauxe</a>, <a href="mailto:hasefaw@ucsd.edu">Hanna Asefaw</a><br/><strong>Affiliation:</strong> <a href="https://scripps.ucsd.edu/">Scripps Institution of Oceanography</a></p>
+<p class="card-subtitle"><strong>Author:</strong> <a href="mailto:bcych@ucsd.edu">Brendan Cych</a>, <a href="mailto:hasefaw@ucsd.edu">Hanna Asefaw</a>, <a href="mailto:ltauxe@ucsd.edu">Lisa Tauxe</a><br/><strong>Affiliation:</strong> <a href="https://scripps.ucsd.edu/">Scripps Institution of Oceanography</a></p>
 <p class="my-2">Python Programming for Earth Science Students</p>
 </div>
 </div>
@@ -1709,7 +1709,7 @@ Packages
 <img class="gallery-thumbnail" src="/_static/thumbnails/ptss-numpy.jpeg"/>
 <div class="container">
 <a class="text-decoration-none" href="https://youtu.be/kstc-6uz7AQ"><h4 class="display-4 p-0">Python Tutorial Seminar Series - Numpy</h4></a>
-<p class="card-subtitle"><strong>Author:</strong> A Kootz, Project Pythia<br/><strong>Affiliation:</strong> <a href="https://ncar.ucar.edu/">NCAR</a></p>
+<p class="card-subtitle"><strong>Author:</strong> Project Pythia, A Kootz<br/><strong>Affiliation:</strong> <a href="https://ncar.ucar.edu/">NCAR</a></p>
 <p class="my-2">Recording from the Python Tutorial Seminar Series introducing the Python Package `numpy`. The content to follow along with this video is hosted on this <a href="https://colab.research.google.com/drive/1zcjaGXofLzUXkQzJKnANE9Z3yFUt0q7E?">Numpy Google Collab</a>.
 </p>
 </div>
@@ -1731,7 +1731,7 @@ Packages
 <img class="gallery-thumbnail" src="/_static/thumbnails/ptss-matplotlib.jpeg"/>
 <div class="container">
 <a class="text-decoration-none" href="https://youtu.be/EiPRIdHQEmE"><h4 class="display-4 p-0">Python Tutorial Seminar Series - Matplotlib</h4></a>
-<p class="card-subtitle"><strong>Author:</strong> Anissa Zacharias, Project Pythia<br/><strong>Affiliation:</strong> <a href="https://ncar.ucar.edu/">NCAR</a></p>
+<p class="card-subtitle"><strong>Author:</strong> Project Pythia, Anissa Zacharias<br/><strong>Affiliation:</strong> <a href="https://ncar.ucar.edu/">NCAR</a></p>
 <p class="my-2">Recording from the Python Tutorial Seminar Series introducing the Python Package `matplotlib`. The content to follow along with this video is hosted on this <a href="https://github.com/anissa111/matplotlib-tutorial">Matplotlib Tutorial GitHub Repository</a>.
 </p>
 </div>
@@ -1754,7 +1754,7 @@ Packages
 <img class="gallery-thumbnail" src="/_static/thumbnails/ptss-oop.jpeg"/>
 <div class="container">
 <a class="text-decoration-none" href="https://youtu.be/GEFnL8C62u8"><h4 class="display-4 p-0">Python Tutorial Seminar Series - Object Oriented Programming</h4></a>
-<p class="card-subtitle"><strong>Author:</strong> A Kootz, Project Pythia<br/><strong>Affiliation:</strong> <a href="https://ncar.ucar.edu/">NCAR</a></p>
+<p class="card-subtitle"><strong>Author:</strong> Project Pythia, A Kootz<br/><strong>Affiliation:</strong> <a href="https://ncar.ucar.edu/">NCAR</a></p>
 <p class="my-2">Recording from the Python Tutorial Seminar Series introducing Object Oriented Programming. The content to follow along with this video is hosted in this <a href="https://github.com/pilotchute/oop_hrrr_tutorial">Object Oriented Programming Tutorial GitHub Repository</a>.
 </p>
 </div>
@@ -1821,7 +1821,7 @@ Packages
 <img class="gallery-thumbnail" src="/_static/thumbnails/ptss-pandas.jpeg"/>
 <div class="container">
 <a class="text-decoration-none" href="https://youtu.be/BsV3ek7qsiM"><h4 class="display-4 p-0">Python Tutorial Seminar Series - Pandas</h4></a>
-<p class="card-subtitle"><strong>Author:</strong> Drew Camron, Project Pythia, Max Grover<br/><strong>Affiliation:</strong> <a href="https://ncar.ucar.edu/">NCAR</a></p>
+<p class="card-subtitle"><strong>Author:</strong> Project Pythia, Drew Camron, Max Grover<br/><strong>Affiliation:</strong> <a href="https://ncar.ucar.edu/">NCAR</a></p>
 <p class="my-2">Recording from the Python Tutorial Seminar Series introducing the Python Package `pandas`. The content to follow along with this video is hosted in this <a href="https://github.com/mgrover1/ncar_pandas_tutorial">Pandas Tutorial GitHub Repository</a>.
 </p>
 </div>
@@ -1931,7 +1931,7 @@ Packages
 <img class="gallery-thumbnail" src="/_static/thumbnails/ptss-geocatplot.jpeg"/>
 <div class="container">
 <a class="text-decoration-none" href="https://youtu.be/It231le1fAU"><h4 class="display-4 p-0">Python Tutorial Seminar Series - Plotting with GeoCAT</h4></a>
-<p class="card-subtitle"><strong>Author:</strong> Anissa Zacharias, Project Pythia<br/><strong>Affiliation:</strong> <a href="https://ncar.ucar.edu/">NCAR</a></p>
+<p class="card-subtitle"><strong>Author:</strong> Project Pythia, Anissa Zacharias<br/><strong>Affiliation:</strong> <a href="https://ncar.ucar.edu/">NCAR</a></p>
 <p class="my-2">Recording from the Python Tutorial Seminar Series introducing advanced plotting techniques and highlighting tools developed by GeoCAT. The content to follow along with this video is hosted in this <a href="https://github.com/anissa111/plotting-with-geocat-tutorial">Plotting with GeoCat GitHub Repository</a>.
 </p>
 </div>
@@ -1954,7 +1954,7 @@ Packages
 <img class="gallery-thumbnail" src="/_static/thumbnails/ptss-geocatcomp.jpeg"/>
 <div class="container">
 <a class="text-decoration-none" href="https://www.youtube.com/watch?v=uiWDQKI8YTQ&amp;t=6s"><h4 class="display-4 p-0">Python Tutorial Seminar Series - GeoCAT-Comp</h4></a>
-<p class="card-subtitle"><strong>Author:</strong> A Kootz, Project Pythia<br/><strong>Affiliation:</strong> <a href="https://ncar.ucar.edu/">NCAR</a></p>
+<p class="card-subtitle"><strong>Author:</strong> Project Pythia, A Kootz<br/><strong>Affiliation:</strong> <a href="https://ncar.ucar.edu/">NCAR</a></p>
 <p class="my-2">Recording from the Python Tutorial Seminar Series introducing `geocat-comp`. The content to follow along with this video is hosted in this <a href="https://github.com/pilotchute/geocat_comp_tutorial">GeoCat-Comp GitHub Repository</a>.
 </p>
 </div>
@@ -2349,7 +2349,7 @@ Packages
         
           By the <a href="https://projectpythia.org/">Project Pythia</a> Community.
         
-          Last updated on 21 March 2024.
+          Last updated on 25 March 2024.
         </p>
       </div>
     </div>

diff --git a/metrics.html b/metrics.html
@@ -292,6 +292,28 @@
               <div>
                  <div class="section" id="metrics">
 <h1>Metrics<a class="headerlink" href="#metrics" title="Permalink to this headline"><i class="fas fa-link"></i></a></h1>
+<p>Last Updated: 2024-03-25 20:29:37.423900</p>
+<table class="colwidths-auto table">
+<thead>
+<tr class="row-odd"><th class="head"><p>Project</p></th>
+<th class="head"><p>Users</p></th>
+</tr>
+</thead>
+<tbody>
+<tr class="row-even"><td><p>Portal</p></td>
+<td><p>12.5K</p></td>
+</tr>
+<tr class="row-odd"><td><p>Foundations</p></td>
+<td><p>47.9K</p></td>
+</tr>
+<tr class="row-even"><td><p>Cookbooks</p></td>
+<td><p>6.5K</p></td>
+</tr>
+</tbody>
+</table>
+<p><img alt="Users this Year" src="_images/thisyear.png" /></p>
+<p><img alt="Top Pages" src="_images/toppages.png" /></p>
+<p><img alt="Users by Country" src="_images/bycountry.png" /></p>
 </div>
 
 <div class="section">
@@ -384,7 +406,7 @@
         
           By the <a href="https://projectpythia.org/">Project Pythia</a> Community.
         
-          Last updated on 21 March 2024.
+          Last updated on 25 March 2024.
         </p>
       </div>
     </div>

diff --git a/index.html b/index.html
@@ -467,7 +467,7 @@ and <a class="reference external" href="https://docs.google.com/document/d/e/2PA
         
           By the <a href="https://projectpythia.org/">Project Pythia</a> Community.
         
-          Last updated on 21 March 2024.
+          Last updated on 25 March 2024.
         </p>
       </div>
     </div>

diff --git a/contributing.html b/contributing.html
@@ -947,7 +947,7 @@ to GitHub again is done with the command:</p>
         
           By the <a href="https://projectpythia.org/">Project Pythia</a> Community.
         
-          Last updated on 21 March 2024.
+          Last updated on 25 March 2024.
         </p>
       </div>
     </div>

diff --git a/blog.html b/blog.html
@@ -472,7 +472,7 @@ the date. More details coming soon!</p>
         
           By the <a href="https://projectpythia.org/">Project Pythia</a> Community.
         
-          Last updated on 21 March 2024.
+          Last updated on 25 March 2024.
         </p>
       </div>
     </div>

diff --git a/blog/2023.html b/blog/2023.html
@@ -437,7 +437,7 @@ the date. More details coming soon!</p>
         
           By the <a href="https://projectpythia.org/">Project Pythia</a> Community.
         
-          Last updated on 21 March 2024.
+          Last updated on 25 March 2024.
         </p>
       </div>
     </div>

diff --git a/blog/author/john-clyne.html b/blog/author/john-clyne.html
@@ -403,7 +403,7 @@ the date. More details coming soon!</p>
         
           By the <a href="https://projectpythia.org/">Project Pythia</a> Community.
         
-          Last updated on 21 March 2024.
+          Last updated on 25 March 2024.
         </p>
       </div>
     </div>

diff --git a/blog/tag/cook-off.html b/blog/tag/cook-off.html
@@ -472,7 +472,7 @@ the date. More details coming soon!</p>
         
           By the <a href="https://projectpythia.org/">Project Pythia</a> Community.
         
-          Last updated on 21 March 2024.
+          Last updated on 25 March 2024.
         </p>
       </div>
     </div>

diff --git a/posts/cookoff2024-savethedate.html b/posts/cookoff2024-savethedate.html
@@ -399,7 +399,7 @@ the date. More details coming soon!</p>
         
           By the <a href="https://projectpythia.org/">Project Pythia</a> Community.
         
-          Last updated on 21 March 2024.
+          Last updated on 25 March 2024.
         </p>
       </div>
     </div>

diff --git a/about.html b/about.html
@@ -651,7 +651,7 @@ only a “single click.”</p></li>
         
           By the <a href="https://projectpythia.org/">Project Pythia</a> Community.
         
-          Last updated on 21 March 2024.
+          Last updated on 25 March 2024.
         </p>
       </div>
     </div>

diff --git a/blog/2024.html b/blog/2024.html
@@ -402,7 +402,7 @@
         
           By the <a href="https://projectpythia.org/">Project Pythia</a> Community.
         
-          Last updated on 21 March 2024.
+          Last updated on 25 March 2024.
         </p>
       </div>
     </div>
